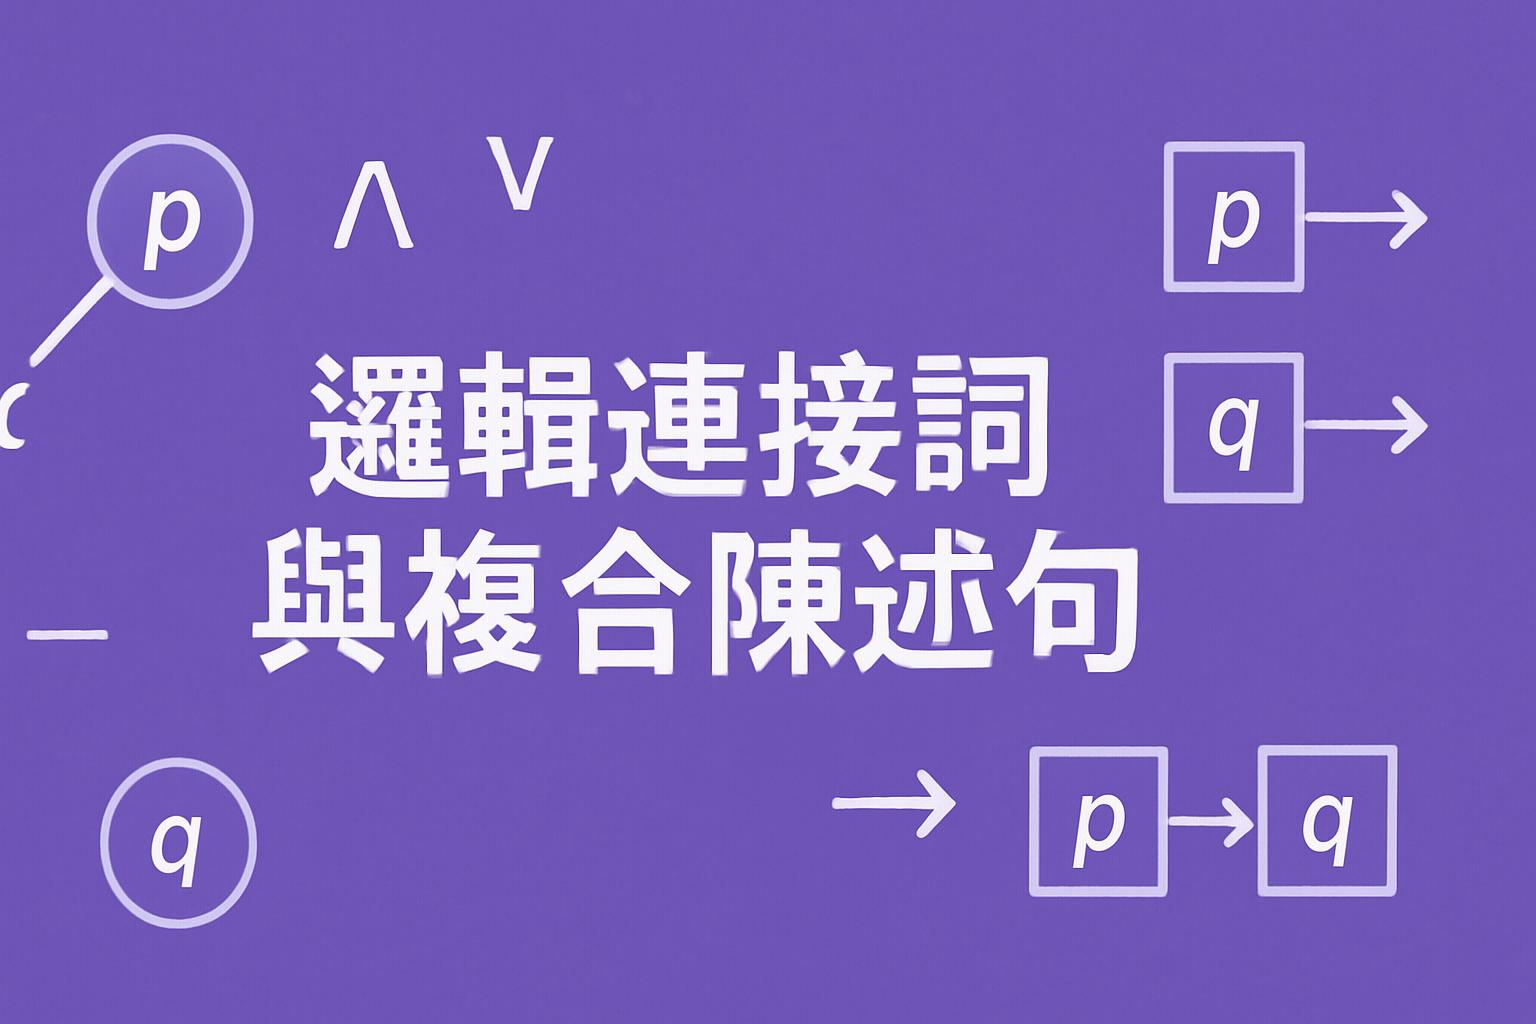
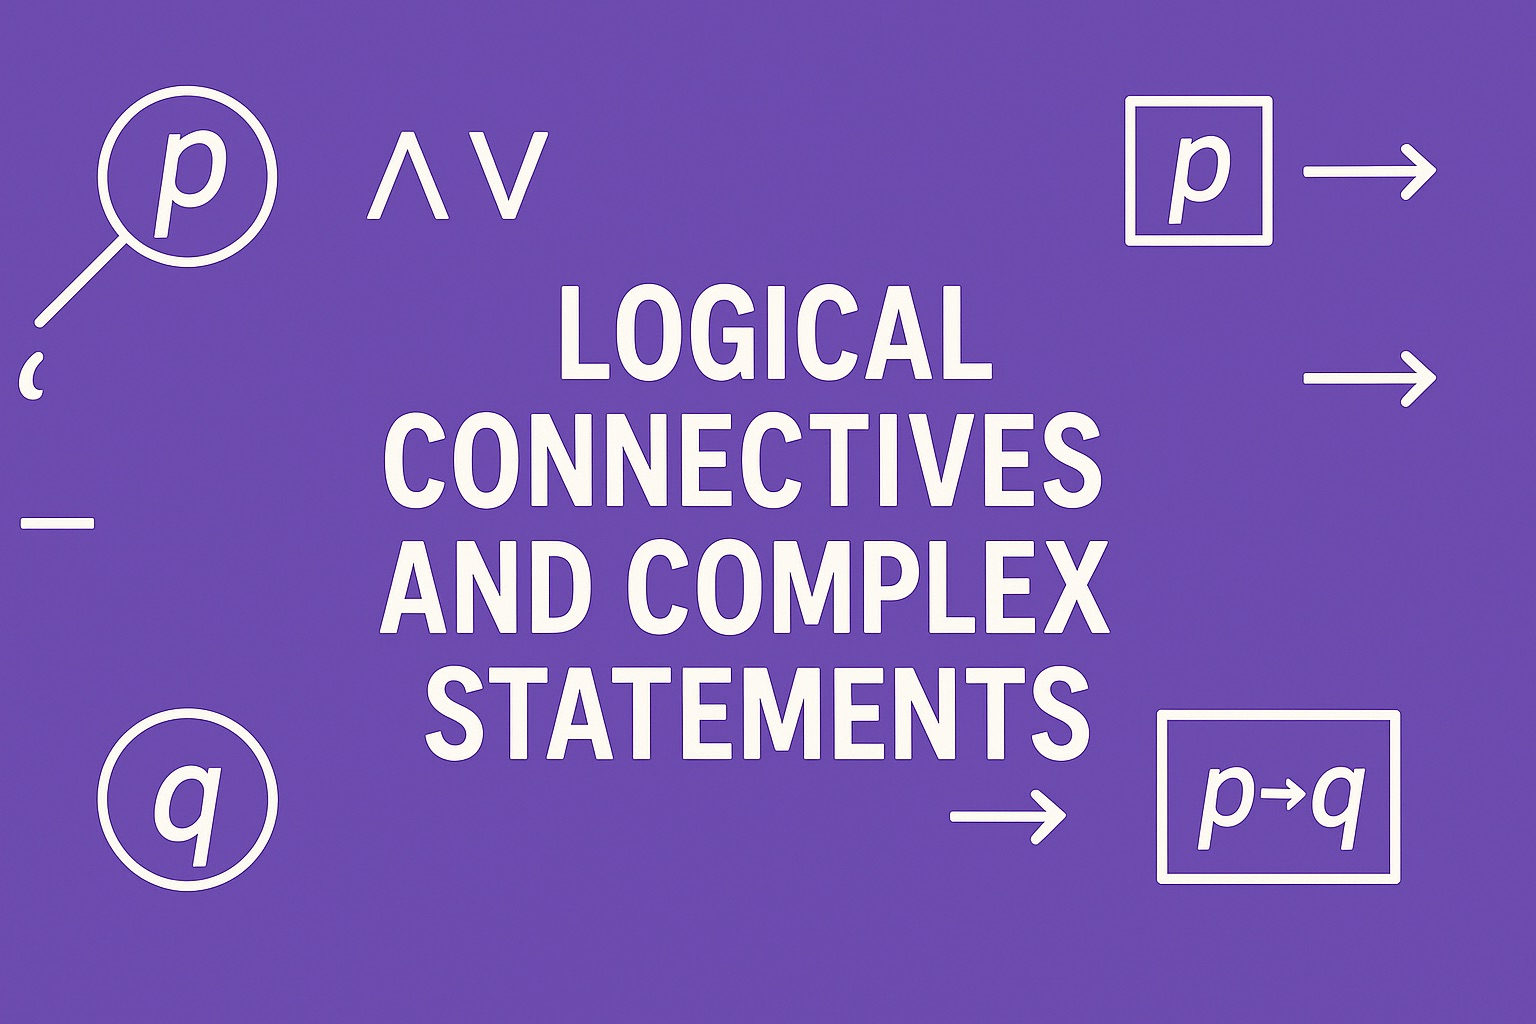
Add course content and internationalization support, update images, and create .gitignore

diff --git a/README.md b/README.md
@@ -1,3 +1,83 @@
+# Introduction to Logic Course
+
+Welcome to the "Introduction to Logic" course! Based on Irving M. Copi's "Introduction to Logic," this course is designed for middle school students to introduce basic concepts and applications of logic, helping students develop logical thinking and critical thinking skills. The course spans five days, covering logic fundamentals, argument structure, logical fallacies, deductive and inductive reasoning, and more.
+
+## Course Overview
+
+The course includes the following main content:
+- **Day 1: Logic Basics and Language** - Introduction to the definition and importance of Logic, learning to identify Statements, and recognizing Premises and Conclusions in Arguments.
+- **Day 2: Arguments and Fallacies** - Exploring Valid Arguments and Invalid Arguments, as well as common Logical Fallacies.
+- **Day 3: Logical Connectives and Compound Statements** - Learning about Connectives, Negation, Conjunction, Disjunction, and other concepts, as well as Compound Statements.
+- **Day 4: Deductive Reasoning and Logical Rules** - In-depth understanding of Deductive Reasoning, Syllogism, and their applications.
+- **Day 5: Inductive Reasoning and Critical Thinking** - Exploring Inductive Reasoning, Argument by Analogy, and Critical Thinking techniques.
+
+## Internationalization (i18n)
+
+This course website supports both English and Chinese languages. You can switch between languages using the language selector in the top-right corner of each page. The selected language will persist across page navigation, and the URL will reflect your language choice with the `?lang=en` or `?lang=zh` parameter.
+
+### Features of the i18n Implementation:
+
+- **Language Selection**: Choose between English and Chinese from the dropdown menu
+- **Persistent Language**: Your language preference is saved and maintained as you navigate through the site
+- **URL Language Parameter**: URLs include a language parameter (`?lang=en` or `?lang=zh`) for direct access to content in your preferred language
+- **Complete Translations**: All content, including navigation, course materials, and UI elements, is fully translated
+
+### Language Files:
+
+- `locales/en.json` - English translations
+- `locales/zh.json` - Chinese translations
+
+## Course File Structure
+
+The course materials have been updated to include Chinese terminology with English translations (presented in parentheses, e.g., "邏輯學 (Logic)") to help learners understand. Below is the structure of the course files:
+
+- **Course Content**:
+  - `day1.html` - Day 1: Logic Basics and Language
+  - `day2.html` - Day 2: Arguments and Fallacies
+  - `day3.html` - Day 3: Logical Connectives and Compound Statements
+  - `day4.html` - Day 4: Deductive Reasoning and Logical Rules
+  - `day5.html` - Day 5: Inductive Reasoning and Critical Thinking
+
+- **Practice Quizzes**:
+  - `day1_quiz.html` - Day 1 Quiz
+  - `day2_quiz.html` - Day 2 Quiz
+  - `day3_quiz.html` - Day 3 Quiz
+  - `day4_quiz.html` - Day 4 Quiz
+  - `day5_quiz.html` - Day 5 Quiz
+
+- **Slides**:
+  - `day1_slides.html` - Day 1 Slides
+  - `day2_slides.html` - Day 2 Slides
+  - `day3_slides.html` - Day 3 Slides
+  - `day4_slides.html` - Day 4 Slides
+  - `day5_slides.html` - Day 5 Slides
+
+- **Other Resources**:
+  - `terminology.html` - English-Chinese Glossary of Logic Terminology
+  - `courses.html` - Course Content Overview
+  - `about.html` - About the Course
+  - `index.html` - Course Homepage
+
+## How to Use This Course
+
+1. Start with `index.html` to understand the overall structure of the course.
+2. Browse through each day's course content (`day1.html` to `day5.html`) in sequence to learn the basic concepts of logic.
+3. Use the corresponding slides (`day1_slides.html` to `day5_slides.html`) to review key points.
+4. Complete each day's practice quiz (`day1_quiz.html` to `day5_quiz.html`) to test your learning outcomes.
+5. Refer to `terminology.html` to familiarize yourself with the English-Chinese correspondence of logic terminology.
+
+## Contact and Feedback
+
+If you have any questions or suggestions, please feel free to contact the course team. We are committed to continuously improving the course content to ensure the best learning experience.
+
+## License
+
+The course materials are licensed under [Creative Commons Attribution 4.0 International (CC BY 4.0)](https://creativecommons.org/licenses/by/4.0/), which allows you to freely share and adapt these materials (including for commercial purposes) as long as you provide appropriate attribution. For detailed license terms, please refer to the [LICENSE.md](LICENSE.md) file.
+
+&copy; 2025 Introduction to Logic Course. All rights reserved.
+
+---
+
 # 邏輯學入門課程
 
 歡迎來到《邏輯學入門》課程！本課程基於Irving M. Copi的《邏輯學入門》，專為國中生設計，旨在介紹邏輯學的基本概念與應用，幫助學生培養邏輯思維與批判性思考能力。課程為期五天，涵蓋邏輯學基礎、論證結構、邏輯謬誤、演繹與歸納推理等主題。
@@ -10,6 +90,22 @@
 - **第三天：邏輯連接詞與複合陳述句** - 學習連接詞 (Connective)、否定 (Negation)、連接 (Conjunction)、選言 (Disjunction) 等概念，以及複合陳述句 (Compound Statement)。
 - **第四天：演繹推理與邏輯規則** - 深入了解演繹推理 (Deductive Reasoning)、三段論 (Syllogism) 及其應用。
 - **第五天：歸納推理與批判性思考** - 探討歸納推理 (Inductive Reasoning)、類比推理 (Argument by Analogy)，以及批判性思考 (Critical Thinking) 的技巧。
+
+## 國際化 (i18n)
+
+本課程網站支持中文和英文兩種語言。您可以使用每個頁面右上角的語言選擇器在語言之間切換。選定的語言將在頁面導航過程中保持不變，URL 將通過 `?lang=zh` 或 `?lang=en` 參數反映您的語言選擇。
+
+### i18n 實現的特點：
+
+- **語言選擇**：從下拉菜單中選擇中文或英文
+- **語言持久性**：您的語言偏好會被保存，並在您瀏覽網站時保持不變
+- **URL 語言參數**：URL 包含語言參數（`?lang=zh` 或 `?lang=en`），可直接訪問您偏好語言的內容
+- **完整翻譯**：所有內容，包括導航、課程材料和 UI 元素，均已完全翻譯
+
+### 語言文件：
+
+- `locales/zh.json` - 中文翻譯
+- `locales/en.json` - 英文翻譯
 
 ## 課程檔案結構
 
